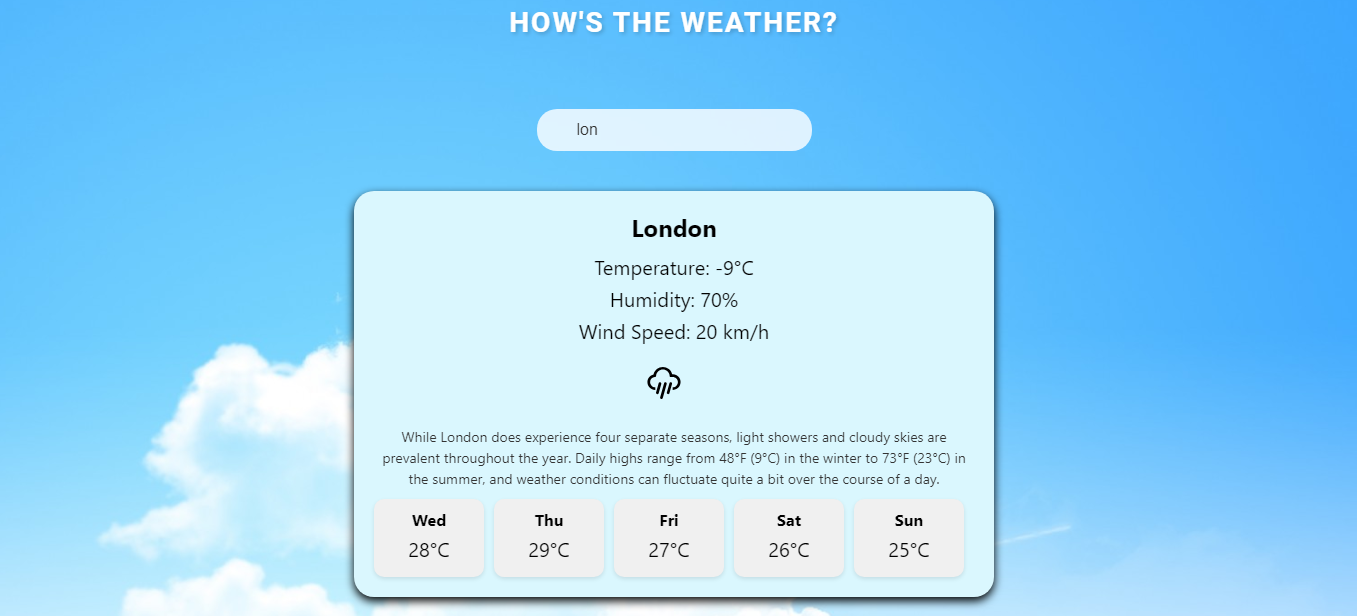
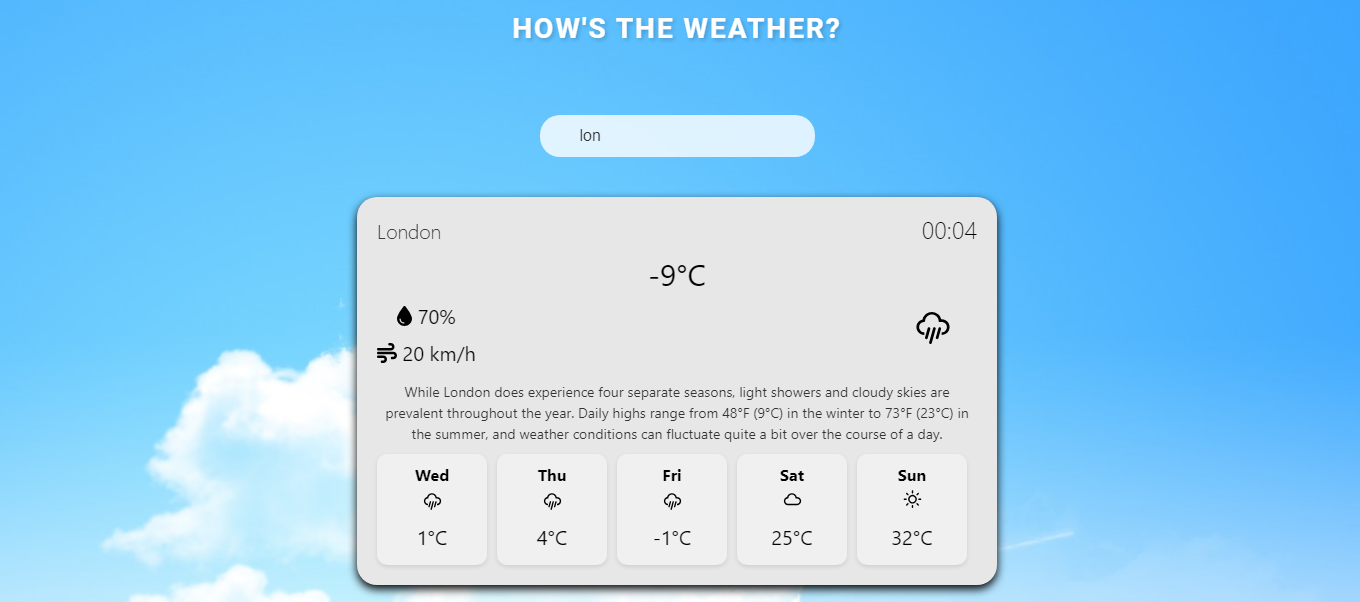
UI Changes and UPDATE README

diff --git a/src/WeatherCard.tsx b/src/WeatherCard.tsx
@@ -3,6 +3,8 @@
 import React, { useState } from 'react';
 import { WiDaySunny, WiCloud, WiRain } from 'react-icons/wi';
 import './css/WeatherCard.css'; 
+import { FontAwesomeIcon } from '@fortawesome/react-fontawesome';
+import { faTint, faWind, faClock } from '@fortawesome/free-solid-svg-icons';
 
 interface WeatherCardProps {
   city: string;
@@ -39,6 +41,7 @@ const WeatherCard: React.FC<WeatherCardProps> = ({
     if (!expanded) {
       // Fetch description from API when card is expanded
       fetchDescription(city);
+      getCurrentTime();
     }
   };
 
@@ -55,8 +58,13 @@ const WeatherCard: React.FC<WeatherCardProps> = ({
       console.error('Error fetching city description:', error);
     }
   };
-  
- 
+  const getCurrentTime = () => {
+    const now = new Date();
+    const hours = now.getHours().toString().padStart(2, '0'); // Ensure two digits
+    const minutes = now.getMinutes().toString().padStart(2, '0'); // Ensure two digits
+    return `${hours}:${minutes}`;
+  };
+  const currentTime =  getCurrentTime();
   const getBackgroundImage = (temperature: number): string => {
     
     if (temperature > 25 && temperature < 35) {
@@ -72,38 +80,44 @@ const WeatherCard: React.FC<WeatherCardProps> = ({
   };
 
   return (
-   
     <div
-    className={`weather-card ${expanded ? 'expanded' : ''} ${getBackgroundImage(parseInt(temperature))}`}
-    onClick={handleCardClick}
-    data-testid="background-image"
-  >
-  
-      <div className="weather-info">
-        <div className="city">{city}</div>
-        <div className="temperature">Temperature: {temperature}</div>
-        <div className="temperature">Humidity: {humidity}</div>
-        <div className="temperature">Wind Speed: {windSpeed}</div>
-        <div className="weather-icon">{renderWeatherIcon(parseInt(temperature))}</div>
-        
-      </div>
-      
-      {expanded && forecast && (
-  <div className="forecast">
-   <div className="description">{description}</div>
-    <div className="forecast-container">
-      {Object.keys(forecast).map((day, index) => (
-        <div key={index} className="forecast-item">
-          <div className="day">{day}</div>
-          <div className="weather-icon-forecast">{renderWeatherIcon(parseInt(forecast[day]))}</div>
-          <div className="temperature">{forecast[day]}</div>
-        </div>
-      ))}
+      className={`weather-card ${expanded ? 'expanded' : ''} ${getBackgroundImage(parseInt(temperature))}`}
+      onClick={handleCardClick}
+      data-testid="background-image"
+    >
+       <div className="current-time">
+      <div className="clock-icon" />
+      {currentTime}
     </div>
+      <div className="city">{city}</div>
+  
+      <div className="current-temperature">{temperature}</div>
+  
+      <div className="weather-info-container">
+  <div className="weather-info">
+    <div className="temperature"><FontAwesomeIcon icon={faTint} className="humidity-icon" /> {humidity}</div>
+    <div className="temperature"><FontAwesomeIcon icon={faWind} className="wind-speed-icon" /> {windSpeed}</div>
   </div>
-)}
+  <div className="weather-icon">{renderWeatherIcon(parseInt(temperature))}</div>
+  
+</div>
+      {expanded && forecast && (
+        <div className="forecast">
+          <div className="description">{description}</div>
+          <div className="forecast-container">
+            {Object.keys(forecast).map((day, index) => (
+              <div key={index} className="forecast-item">
+                <div className="day">{day}</div>
+                <div className="weather-icon-forecast">{renderWeatherIcon(parseInt(forecast[day]))}</div>
+                <div className="temperature">{forecast[day]}</div>
+              </div>
+            ))}
+          </div>
+        </div>
+      )}
     </div>
   );
+  
 };
 
 export default WeatherCard;

diff --git a/src/css/WeatherCard.css b/src/css/WeatherCard.css
@@ -1,13 +1,17 @@
 .weather-card {
-    background-color: #ffffff; /* White background */
-    border-radius: 20px; /* Curved border */
+   background-color: #ffffff; /* White background */
+   border-radius: 20px; /* Curved border */
     box-shadow: 0px 4px 10px rgba(0, 0, 0, 1); /* Box shadow effect */
     padding: 20px; /* Padding for content */
     margin: 20px; /* Margin around the card */
     width: 400px; /* Set the width of the card */
     cursor: pointer; /* Add cursor pointer */
-  position: relative;
   transition: all 0.3s ease; 
+  position: relative;
+  display: flex;
+  
+  flex-direction: column;
+  justify-content: space-between;
   }
   .weather-card.flipped {
     transform: rotateY(180deg); /* Rotate card when flipped */
@@ -15,9 +19,9 @@
   
   
   .weather-card .city {
-    font-size: 24px; /* Font size for city */
-    font-weight: bold; /* Bold font weight */
-    margin-bottom: 10px; /* Margin at the bottom */
+    font-size: 20px; /* Font size for city */
+    font-weight: lighter; /* Bold font weight */
+     /* Margin at the bottom */
   }
   
   .weather-card .temperature,
@@ -86,7 +90,7 @@
     background-color: white; /* Red */
   }
   100% {
-    background-color: #ff8a65; /* Orange */
+    background-color: #ffab40; /* Orange */
   }
 }
 .weather-card.snowAnimation{
@@ -139,6 +143,60 @@
   font-size: 25px
 
 }
+.city {
+  font-size: 24px;
+  font-weight: bold;
+ 
+  align-self: flex-start; /* Align city name to top left */
+}
+
+.current-temperature {
+  font-size: 30px;
+  text-align: center;
+}
+
+.weather-info-container {
+  display: flex;
+  align-items: flex-end; /* Align items to the bottom */
+}
+
+.weather-info {
+  display: flex;
+  flex-direction: column;
+}
+
+.temperature {
+  
+    margin-top: 5px;
+  
+}
+
+.weather-icon {
+  font-size: 48px;
+  margin-left: auto; /* Move the weather icon to the right */
+}
+.humidity,
+.wind-speed {
+  display: flex;
+  align-items: center;
+  margin-right: 10px;
+}
+
+.humidity .fa-icon,
+.wind-speed .fa-icon {
+  margin-right: 10px;
+}
+.current-time {
+  position: absolute;
+  top: 6px;
+  right: 10px;
+  font-size: 24px;
+  font-weight: lighter;
+  margin: 10px;
+
+}
+
+
 
 
   

diff --git a/README.md b/README.md
@@ -59,6 +59,14 @@ docker-compose up -d
 
  http://localhost:3000
 
+### List of cities for search:
+
+    NewJersey
+    NewYork
+    London
+    Mumbai
+    LosAngeles
+
 ```
 ### Additional Information:
 When you click on a weather card in the dashboard view, it expands to show more detailed information about the weather for that particular city. This detailed view includes the weather description and a 5-day weather forecast, providing users with comprehensive insights into the weather conditions. This information is fetched from the backend API endpoint `localhost:4000/weather?city={cityName}`.
